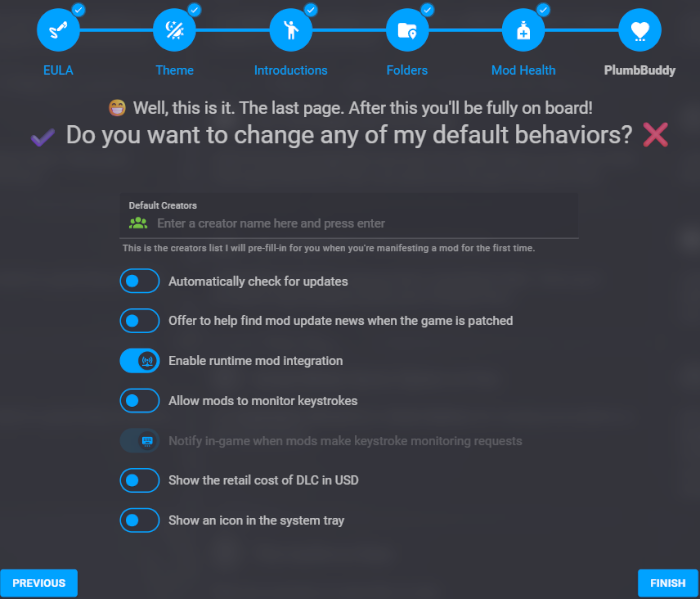
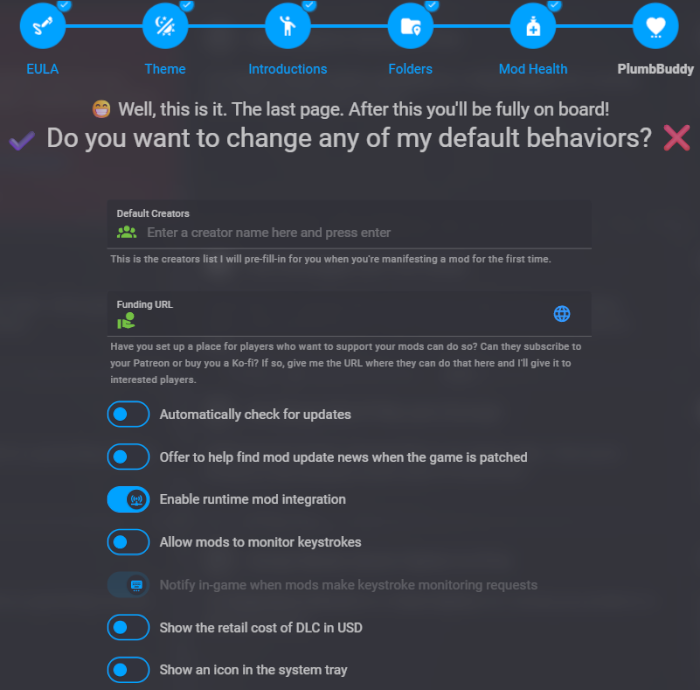
default funding URL

diff --git a/src/pages/text-guides/creator-onboarding.md b/src/pages/text-guides/creator-onboarding.md
@@ -117,7 +117,9 @@ Once you've made your decisions, click Next on the bottom right.
 
 Here are certain things that PlumbBuddy does by default that you can turn off, and things it doesn't do for you by default that you can turn on, and where you set your default creator name(s) that will auto populate in your manifests.
 
-At the top is an empty bar. Type in your creator name and hit enter. If you typically work with a team and want to have each person listed, you can type them all in and hit enter after each one. You can remove any that aren't working on a particular mod in that mod's manifest.
+At the top are two empty bars. Type in your creator name in the first one and hit enter. If you typically work with a team and want to have each person listed, you can type them all in and hit enter after each one. You can remove any that aren't working on a particular mod in that mod's manifest.
+
+In the second bar, you can enter a URL that will be shown in Catalog on your mods which mod users can go to to support you financially. If you enter it here, it will automatically be filled in for any manifests you make and any manifests you update, if they didn't already have a funding URL. You can change it in the manifest if you'd like.
 
 Below that are a series of toggles:
 
